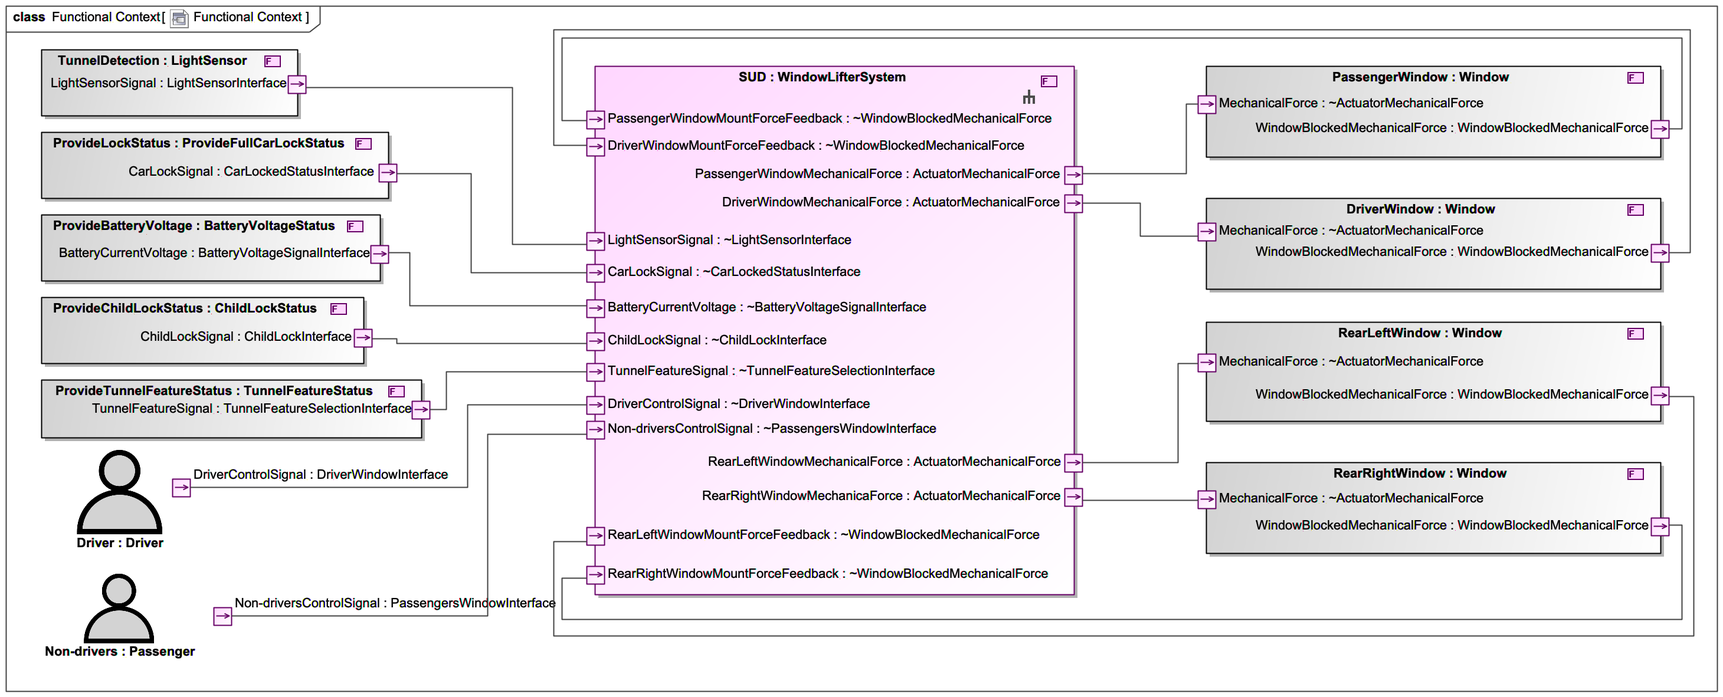
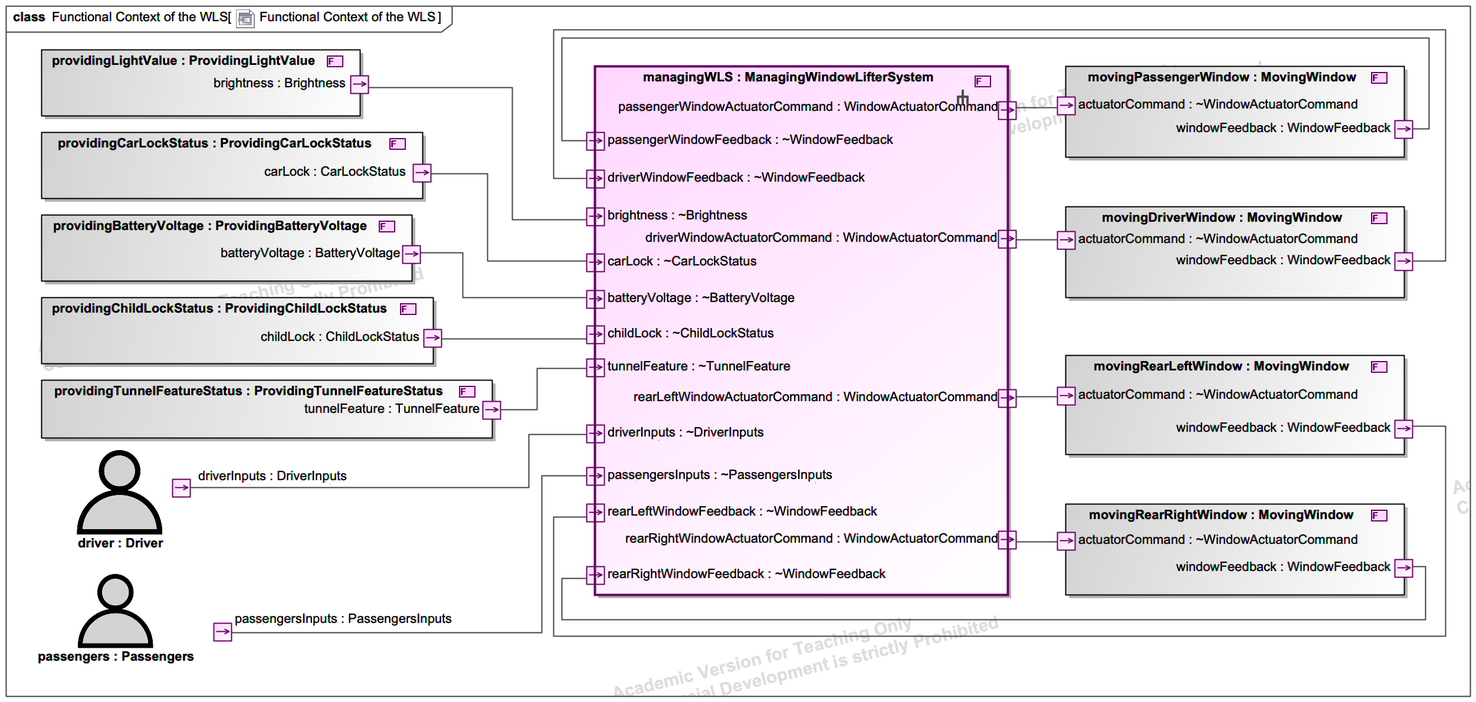
integrated WF rules to FVP and made small adjustments to align with update WLF example

Changed region(s): [[0.0, 0.0, 0.9976, 1.0], [0.4053, 0.9746, 0.4365, 1.0]]

diff --git a/2_Concepts/3_ModelingFramework/04_functional_viewpoint.md b/2_Concepts/3_ModelingFramework/04_functional_viewpoint.md
@@ -11,13 +11,13 @@ permalink: /concepts/modeling_framework/functional_viewpoint.html
 
 The _Functional Viewpoint_ contains three model types that can be used to describe the desired functionality of a system on a _system_ level (i.e., primarily from the perspective of external actors such as users or external systems).
 
-In the center of the Functional Viewpoint is the concept of _system functions_. A system function describes a coherent set of interactions between a system and its external actors or external systems. The granularity of a system function is comparable to that of a [Use Case](https://en.wikipedia.org/wiki/Use_case). A system with several system functions can be called a _multifunctional system_. In general, system functions describe system behavior, which is largely independent of each other, however, system functions may also influence each other in specific cases. In the Functional Viewpoint, these influences are modeled by so-called _mode channels_ between system functions.  
+In the center of the Functional Viewpoint is the concept of _system functions_. A system function describes a coherent set of interactions between a system and its external actors or external systems. The granularity of a system function is comparable to that of a [Use Case](https://en.wikipedia.org/wiki/Use_case). A system with several system functions can be called a _multifunctional system_. In general, system functions describe system behavior that is largely independent of each other, however, system functions may also influence each other in specific cases. In the Functional Viewpoint, these influences are modeled by so-called _mode channels_ between system functions.  
 
 The Functional Viewpoint then consists of three model types:
 
-- Functional Black-box Model: Contains all system functions and structures them in a hierarchy
-- Functional White-box Model: Describes the decomposition of one particular system function into a set of related white-box functions
-- Mode Model: Describes operational states of the system. These operational states can be referenced in mode channels that describe dependencies between system functions.
+- **Functional Black-box Model**: Contains all system functions and structures them in a hierarchy
+- **Functional White-box Model**: Describes the decomposition of one particular system function into a set of related white-box functions
+- **Mode Model**: Describes operational states of the system. These operational states can be referenced in mode channels that describe dependencies between system functions.
 
 In the following, we describe the three model types and how we represent them in SpesML using the [universal interface model](./uim.html).
 
@@ -25,9 +25,8 @@ In the following, we describe the three model types and how we represent them in
 
 ## Functional Context: The System and its Context in the Functional Viewpoint
 
-Just like all other viewpoints, the functional viewpoint refers to a specific system scope, i.e., there is a clear notion of what is part of the "system" currently under development and what is considered as the context of that system. It is important to note that the system boundary in the functional viewpoint is conceptually the same as the boundary in all the other viewpoints. Any context object that occurs, for example, in the context of the logical viewpoint must all occur in the context of the functional viewpoint and vice versa. 
-
-The system boundary and the system context are specified in the `Functional Context`. This diagram contains one specific `Function` that represents the entire System-under-Development (SuD).  
+Just like all other viewpoints, the functional viewpoint refers to a specific system scope, i.e., there is a clear notion of what is part of the "system" currently under development and what is considered the context of that system. The context described in the functional viewpoint focuses on functions (i.e., chunks of behavior) in the context rather than entities. 
+The system boundary and the system context are specified in the `Functional Context`. This diagram contains one specific `Function` that represents the entire System-under-Development (SuD) and additional functions around the SuD that describe functions provided by the context.  
 
 The following figure shows the `WindowLifterSystem` in its functional context
 
@@ -35,37 +34,56 @@ The following figure shows the `WindowLifterSystem` in its functional context
 ![Functional Context](/images/functional_viewpoint/functional-context.png){:width="1200" :class="img-responsive" style="display:block; margin-left:auto; margin-right:auto"}
 <div align="center"><b>Figure 1: </b><em>Functional Context</em></div>
 
+### Modeling Rules for the Functional Context
+
+- The functional context must include exactly one system function that represents the SuD. 
 
 ## System Function
-A system function describes a coherent set of interactions between a system and its external actors or external systems. For this purpose, it uses the modeling elements of the [universal interface model](./uim.html). That means a system function is described by a specific `SysML block` called `Function`. Each system function has a syntactic interface defined by a `Functional Interface`, i.e., a set of input and output ports with associated types. 
+A system function describes a coherent set of interactions between a system and its external actors or external systems. For this purpose, it uses the modeling elements of the [universal interface model](./uim.html). That means a system function is described by a specific modeling element called `Function`. Each system function has a syntactic interface defined by a `Functional Interface`, i.e., a set of input and output ports with associated types. 
 
 
-The following figure shows the system function `CentralWindowFunction` with its associated interface consisting of input and output ports. 
+The following figure shows the system function `controllingAllWindows` with its associated interface consisting of input and output ports. 
 
 ![System Function](/images/functional_viewpoint/system-function.png){:width="500" :class="img-responsive" style="display:block; margin-left:auto; margin-right:auto"}
 <div align="center"><b>Figure 2: </b><em>System Function</em></div>
 
+### Modeling Rules for System Functions
+
+- System functions must have at least one output port connected to an output port of the overall SuD or at least one input port connected to an input port of the overall SuD.
+- _Recommendation:_ A system function models behavior, so the name should begin with a verb (e.g., controlWindows)
+
 ## System Function Hierarchy
-A system can have several system functions. If the number of system functions is small (for example, less than 10 system functions), we can simply list the system functions and model their interfaces. However, if a system offers a large number and variety of system functions (like an entire car), it may be beneficial to structure the system functions hierarchically with respect to some *functional domains*. To model this hierarchy, a functional domain can be described as a composition of system functions. Technically, the functional domain is, again, a system function with an interface, which is defined by the composition of the contained system functions. To model this composition, a `SysML block` that represents a system function can have `parts`, which again represent system functions. The `proxy ports` of the `parts` can be connected by `flow properties`. Such connections between system functions describe functional dependencies between system functions (e.g., a specific state of one system function affects the behavior of another system function). These dependencies should be considered with care as a primary design goal is to specify system functions as independently from each other as possible.  
+A system can have several system functions. If the number of system functions is small (e.g., less than 10 system functions), we can simply list the system functions and model their interfaces. However, if a system offers a large number and variety of system functions (like an entire car), it may be beneficial to structure the system functions hierarchically with respect to some *functional domains*. To model this hierarchy, a functional domain can be described as a composition of system functions. Technically, the functional domain is, again, a system function with an interface, which is defined by the composition of the contained system functions. To model this composition, a system function can have `parts`, which again represent system functions. The `ports` of the `parts` can be connected. Such connections between system functions describe functional dependencies between system functions (e.g., a specific state of one system function affects the behavior of another system function). These dependencies should be considered with care since you should specify system functions as independently from each other as possible.  
 Remember that system functions describe interactions between a system and its external actors or external systems. That means, a decomposition into system functions must not result in *internal* functions, which have no interface to the context of the system. The system function that represents the *root* of the system function hierarchy specifies the interface of the entire system from a functional point of view (i.e., by a vocabulary and on a granularity level that is close to the functional system requirements).  
 
-The following figure shows the system function hierarchy of the `WindowLifter`. In this example, the system contains three system functions (`CentralWindowFunction`, `TunnelWindowClosingFunction`, and `BatteryVoltageFunction`). There are dependencies between the functions (`tunnelWindowClosingMode` and `BatteryMode`) that are used to describe that the window lifter control is influenced by a (low) battery state and by being in a tunnel. 
+The following figure shows the system function hierarchy of the `WindowLifter`. In this example, the system contains three system functions (`controllingAllWindows `, `collectingInput`, and `evaluatingSystemModes`). There are dependencies between the functions (`evaluatingSystemModes` and `controllingAllWindows`) that are used to describe that the window lifter control is influenced by a (low) battery state and by being in a tunnel. 
 
 ![System Function Hierarchy](/images/functional_viewpoint/system-function-hierarchy.png){:width="1200" :class="img-responsive" style="display:block; margin-left:auto; margin-right:auto"}
 <div align="center"><b>Figure 3: </b><em>System Function Hierarchy</em></div>
 
+### Modeling Rules for System Function Hierarchies
+
+- There exists exactly one root system function, the SuD
+
 ## White-box Functions
 A white-box function describes a unit of behavior that is necessary to realize a [system function](system-function). For this purpose, it uses the modeling elements of the [universal interface model](./uim.html). 
-That means a white-box function is described by a `SysML block` with an associated syntactic interface defined by `proxy ports`.
+That means a white-box function is described by a specific modeling element with an associated syntactic interface defined by `ports`.
 The behavior of a white-box function can be specified by any type of behavior specification that relates input streams received on the input ports to output streams produced on the output ports (e.g., state machines). 
+
+### Modeling Rules for White-Box Functions
+
+- Each functional white-box model must be related to exactly one system function.
+- Each system function must be related to at most one functional white-box model.
+- The interface of a system function (i.e., inputs and outputs) must be reflected in its related functional white-box model, i.e., each input and output port of the system function must also be a _free_ input or output port in the functional white-box model (i.e., a port without any flow property). 
+- Each white-box function must be related to at most one logical component that implements this white-box function.
 
 
 ## Functional White-Box Model of a System Function
-A [system function](system-function) is realized by a set of communicating white-box function (cf. _glass-box refinement_) that may again be decomposed into smaller white-box functions. To model this hierarchy, a system function is related (via a _refinement_ relation) to exactly one _functional white-box model_ that describes a composition of white-box functions. To model this composition, a `SysML block` that represents a white-box function can have `parts`, which again represent white-box functions. The `proxy ports` of the `parts` can be connected by `flow properties`. The resulting "chain" of white-box functions for a system function is sometimes also called a causal chain (_"Wirkkette"_). In contrast to system functions, the majority of white-box functions will only have "internal" ports, i.e., output ports are connected to input ports of other white-box functions. Only a few white-box function will have input or output ports that are _not_ connected to other white-box function. These "external" ports must reflect the syntactic interface of the corresponding system function. 
+A [system function](system-function) is realized by a set of communicating white-box functions (cf. _glass-box refinement_) that may again be decomposed into smaller white-box functions. To model this hierarchy, a system function is related (via a _refinement_ relation) to exactly one _functional white-box model_ that describes a composition of white-box functions. To model this composition, a white-box function can have `parts`, which again represent white-box functions. The `ports` of the `parts` can be connected. The resulting "chain" of white-box functions for a system function is sometimes also called a causal chain (_"Wirkkette"_). In contrast to system functions, the majority of white-box functions will only have "internal" ports, i.e., output ports are connected to input ports of other white-box functions. Only a few white-box functions will have input or output ports that are _not_ connected to other white-box functions. These "external" ports must reflect the syntactic interface of the corresponding system function. 
 
-Note: For input ports, multiple white-box functions may be listening at the same "external" port, e.g. if messages from that port need to be processed by multiple white-box functions independently. For output ports, only one white-box function can write to this port. If multiple white-box functions need to write to the same port, a coordination white-box function is needed. Such a coordination function can either be an additional white-box function or belong to one of the white-box functions that need to write to the port. 
+Note: An input from a context function can be processed by multiple white-box functions (e.g. if messages from that port need to be processed by multiple white-box functions independently). Output ports, on the other hand, can only be influenced by exactly one white-box function. If multiple white-box functions need to influence one specific port, a coordinating white-box function is needed. Such a coordination function can either be an additional white-box function or the coordination behavior can be added to an existing white-box function. 
 
-The following figure shows the functional white-box model of the system function `CentralWindowFunction `. It defines six white-box functions that specify the necessary steps to realize the system function.
+The following figure shows the functional white-box model of the system function `controllingAllWindows `. It defines five white-box functions that specify the necessary steps to realize the system function.
 
 ![Functional White-Box Model](/images/functional_viewpoint/white-box-model.png){:width="900" :class="img-responsive" style="display:block; margin-left:auto; margin-right:auto"}
 <div align="center"><b>Figure 4: </b><em>Functional White-Box Model</em></div>
@@ -76,8 +94,8 @@ As described above, system functions can influence the behavior of other system 
 
 In addition to the functional black-box model, we can also describe a _mode model_ that focuses exclusively on the modes and possible transitions between mode values. A mode model is modeled by a state machine where the states represent values that can be sent over a mode channel in the functional black-box model.
 
-In our example of the Window Lifter, we had two mode channels (`tunnelWindowClosingMode` and `BatteryMode`) between the two system functions. The port associated with the `tunnelWindowClosingMode` channel has the type `ActivatedDeactivated` that defines two possible values to be transmitted over this channel (`ACTIVATED` and `DEACTIVATED`; see figure below). The port associated with the `BatteryMode` channel has the type `BatteryStatus` that defines two possible values to be transmitted over this channel (`OK` and `notOK`; see figure below). From this information, we can create a mode model that contains a state for each of the values. In addition to the states, we can also specify transitions between the states to define allowed mode sequences (see figure below). 
-In the example, we specify that only specific mode sequences are allowed to be transmitted over mode channels with the specific mode types. System functions that have an outgoing mode channel with such types must adhere to the allowed mode transitions (e.g., `TunnelWindowClosingFunction` must not define behavior that sends a sequence like `<..., ACTIVATED, DEACTIVATED,...>` over the mode channel `TunnelWindowClosingMode` after a message `notOK` has been sent over the mode channel `BatteryMode`). Thus, the mode model defines a kind of mode protocol that all functions must adhere to. 
+In our example of the Window Lifter, we had two mode channels (`closeWindowTunnelMode` and `batteryMode`) between the two system functions `evaluatingSystemModes` and `controllingAllWindows`. The port associated with the `tunnelWindowClosingMode` channel has the type `TunnelCloseWindowMode` that defines two possible values to be transmitted over this channel (`ACTIVATED` and `DEACTIVATED`; see figure below). The port associated with the `BatteryMode` channel has the type `BatteryStatus` that defines two possible values to be transmitted over this channel (`OK` and `notOK`; see figure below). From this information, we can create a mode model that contains a state for each of the values. In addition to the states, we can also specify transitions between the states to define allowed mode sequences (see figure below). 
+In the example, we specify that only specific mode sequences are allowed to be transmitted over mode channels with the specific mode types. System functions that have an outgoing mode channel with such types must adhere to the allowed mode transitions (e.g., `TunnelWindowClosingFunction` must not define behavior that sends a sequence like `<..., ACTIVATED, DEACTIVATED,...>` over the mode channel `closeWindowTunnelMode ` after a message `notOK` has been sent over the mode channel `batteryMode `). Thus, the mode model defines a kind of mode protocol that all functions must adhere to. 
 
 
 ![Data type and possible values of a mode channel](/images/functional_viewpoint/mode_datatypes.png){:width="250" :class="img-responsive" style="display:block; margin-left:auto; margin-right:auto"}
@@ -86,6 +104,13 @@ In the example, we specify that only specific mode sequences are allowed to be t
 
 ![Mode model based on the data type of the mode channel.](/images/functional_viewpoint/mode-model.png){:width="400" :class="img-responsive" style="display:block; margin-left:auto; margin-right:auto"}
 <div align="center"><b>Figure 6: </b><em>Mode model based on the data type of the mode channel</em></div>
+
+### Modeling Rules for a Mode Model
+
+- There is at most one mode model per system.
+- Each value that can be sent over a mode channel (i.e., a channel between system functions in the functional black-box model) must have a corresponding state in the mode model.
+- Transitions in the mode model do not have any guards or actions as they simply define potential sequences of modes.
+- A mode model has an initial state but no final state. 
 
 
 # Tracing Relations between Functions and other Elements
@@ -98,27 +123,6 @@ An engineer may decompose system functions into a set of white-box functions to 
 The following figure illustrates these relations:
 ![Functional Architecture Concept](/images/functional_viewpoint/functional-architecture-concept.png){:width="500" :class="img-responsive" style="display:block; margin-left:auto; margin-right:auto"}
 <div align="center"><em>Elements of the Functional VP and their relations to elements of other viewpoints</em></div>
-
-
-<!--
-# Modeling Guidelines
-
-## System Functions
-
-- The interface of each system function must have at least one output port or one output port that is part of the interface of the top-level system.
-
-## White-Box Functions
-- Each functional white-box model must be related to exactly one system function.
-- Each system function must be related to at most one functional white-box model.
-- The interface of a system function (i.e., inputs and outputs) must be reflected in its related functional white-box model, i.e., each input and output port of the system function must also be a _free_ input or output port in the functional white-box model (i.e., a port without any flow property). 
-- Each white-box function must be related to at most one logical component that implements this white-box function.
-
-## Mode Model
-- Each value that can be sent over a mode channel (i.e., a channel between system functions in the functional black-box model) must have a corresponding state in the mode model.
-- Transitions in the mode model do not have any guards or actions as they simply define potential sequences of modes.
-- A mode model has an initial state but no final state. 
-
--->
 
 
 

diff --git a/3_Plugin/06_functional_viewpoint.md b/3_Plugin/06_functional_viewpoint.md
@@ -15,9 +15,9 @@ In the center of the Functional Viewpoint is the concept of _system functions_. 
 
 The Functional Viewpoint then consists of three model types:
 
-- Functional Black-box Model: Contains all system functions and structures them in a hierarchy
-- Functional White-box Model: Describes the decomposition of one particular system function into a set of related white-box functions
-- Mode Model: Describes operational states of the system. These operational states can be referenced in mode channels that describe dependencies between system functions.
+- **Functional Black-box Model**: Contains all system functions and structures them in a hierarchy
+- **Functional White-box Model**: Describes the decomposition of one particular system function into a set of related white-box functions
+- **Mode Model**: Describes operational states of the system. These operational states can be referenced in mode channels that describe dependencies between system functions.
 
 ## Method
 
@@ -30,17 +30,17 @@ The following figure illustrates these relations:
 
 ## Structure
 
-The different models of the Functional Viewpoint are structured in the Containment Tree of a project. A top-level node called `Functional Viewpoint` contains all elements of this viewpoint (see figure below). 
+The different models of the Functional Viewpoint create a functional view of a system that is structured in the Containment Tree of a project. A top-level node called `FunctionalView` contains all elements of this view (see figure below). 
 
-![Elements of the Functional VP in the Containment Tree](/images/functional_viewpoint/containment-tree.png){:width="400" :class="img-responsive" style="display:block; margin-left:auto; margin-right:auto"}
-<div align="center"><em>Elements of the Functional VP in the Containment Tree</em></div>
+![Elements of the Functional View in the Containment Tree](/images/functional_viewpoint/containment-tree.png){:width="400" :class="img-responsive" style="display:block; margin-left:auto; margin-right:auto"}
+<div align="center"><em>Elements of the Functional View in the Containment Tree</em></div>
 
 Below this node, there are the following specific subnodes:
 
-- **System Functions**: This package contains all _system function_ elements. The functional white-box model of each system function is located below the system function element.
-- **White-box Functions**: This package contains all _white-box function_ elements.
+- **Elements -> System Functions**: This package contains all _system function_ elements. The functional white-box model of each system function is located below the system function element.
+- **Elements -> White-box Functions**: This package contains all _white-box function_ elements.
 - **System**: This package contains the functional black-box model and the mode model of the system.
-- **Functional Context**: This package contains the top-level view of the functional viewpoint and contains a diagram of the system under development in the context of its surrounding external systems and actors.
+- **Functional Context**: This package contains the top-level view of the functional viewpoint and contains a diagram of the system under development in the context of its surrounding context functions.
 
 
 ![Elements of the Functional VP in the Containment Tree](/images/functional_viewpoint/containment-tree-expanded.png){:width="500" :class="img-responsive" style="display:block; margin-left:auto; margin-right:auto"}
@@ -54,7 +54,7 @@ Tracing information is gathered in the `Functional Tracing Package`, consisting 
 
 To specify a system function with inputs and outputs, follow these steps:
 
-1. Navigate to the `System Functions` folder under `FunctionalViewpoint -> Elements` (or create it if it does not exist)
+1. Navigate to the `System Functions` folder under `FunctionalView -> Elements` (or create it if it does not exist)
 
 2. Right-click on the folder and select *Create Element*. A dialog will open in which you can select elements you want to create. Select *Function*:  
   
@@ -208,12 +208,12 @@ The `Functional Package` contains all elements of the Functional Viewpoint inclu
 
 
 ### ![Functional Context](/images/functional_viewpoint/FunctionalContext.png){:class="img-responsive"}Functional Context
-The Functional Context represents the top-level view of the system under development. It contains a single [system function](#function) that represents the system under development and that must be marked as such by setting the property `system under development` to `yes` (see below).
+The Functional Context represents the top-level view of the system under development. It contains a single [system function](#function) that represents the system under development and that must be marked as such by setting the property `system under development to `yes` (see below).
 
 ![Marking a system function as *system under development*](/images/functional_viewpoint/sud-property.png){:width="400" :class="img-responsive" style="display:block; margin-left:auto; margin-right:auto"}
 <div align="center"><em>Marking a system function as *system under development*</em></div>
 
-Additionaly, the Functional Context contains a number of [Functional Actors](#functional-actor) and [external functions](#function) that represent elements of the context. 
+Additionally, the Functional Context contains a number of [Functional Actors](#functional-actor) and [external functions](#function) that represent elements of the context. 
 A function can be defined as external by changing the property `external` from `no` to `yes` (see below). 
 
 ![Marking a function as *external* function](/images/functional_viewpoint/external-property.png){:width="400" :class="img-responsive" style="display:block; margin-left:auto; margin-right:auto"}
@@ -245,7 +245,7 @@ A Functional Interface Type can either contain a Value Property (e.g., a specifi
 ### ![Functional Interface](/images/functional_viewpoint/FunctionalInterface.png){:class="img-responsive"}Functional Interface
 This element is based on a *SysML Proxy Port* with a dedicated stereotype that allows defining where the element can be placed and other specifications.
 A Functional Interface is used to connect different functional elements generically. 
-It can be specified further by using [Functional Interface Types](#functional-interface-type) and [Channels](#channel) to model the connection and information flow between the elements (via  channels).
+It can be specified further by using [Functional Interface Types](#functional-interface-type) and [Channels](#channel) to model the connection and information flow between the elements (via channels).
 A Functional Interface is nothing more than a port that can be attached to a [function](#function). If another function has also such a port/interface with the same [Functional Interface Type](#functional-interface-type)], the user can connect these two ports with a *Connector* line.
 
 ### ![Channel](/images/universal_interface_model/Channel.png){:class="img-responsive"}Channel
